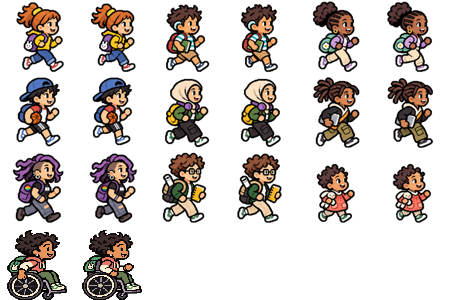
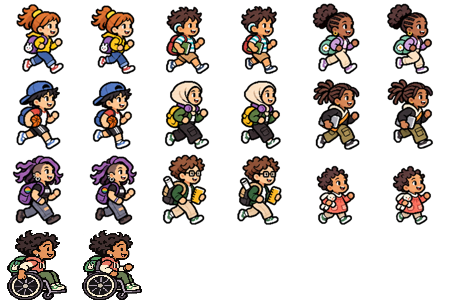
feat: improve companion formation visibility

diff --git a/tests/phaser/companion-group.test.ts b/tests/phaser/companion-group.test.ts
@@ -1,44 +1,57 @@
 import { describe, expect, it } from "vitest"
 
 import {
-  COMPANION_APPEARANCE_ORDER,
+  companionAppearanceOrder,
   companionFormation,
 } from "../../src/phaser/entities/CompanionGroup"
 
 describe("companion formation", () => {
-  it("spreads ten companions across three grounded perspective rows", () => {
+  it("reveals the farthest followers first without moving existing students", () => {
     const slots = companionFormation(10)
-    const rows = [...new Set(slots.map(({ y }) => y))].sort((a, b) => a - b)
 
     expect(slots).toHaveLength(10)
-    expect(rows).toEqual([-20, -10, 0])
-    expect(rows[1]! - rows[0]!).toBeGreaterThanOrEqual(8)
-    expect(rows[2]! - rows[1]!).toBeLessThanOrEqual(14)
-    for (const row of rows) {
-      const xs = slots
-        .filter((slot) => slot.y === row)
-        .map(({ x }) => x)
-        .sort((a, b) => a - b)
-      expect(xs[1]! - xs[0]!).toBeGreaterThan(23)
+    expect(slots.every(({ y }) => y === 0)).toBe(true)
+    expect(slots.map(({ x }) => x)).toEqual([
+      -176, -161, -146, -131, -116, -101, -86, -71, -56, -41,
+    ])
+    expect(companionFormation(5)).toEqual(slots.slice(0, 5))
+  })
+
+  it("keeps every pair of feet on the floor and spaces the group horizontally", () => {
+    const slots = companionFormation(10)
+    const gaps = slots.slice(1).map((slot, index) => slot.x - slots[index]!.x)
+
+    expect(slots.every(({ y }) => y === 0)).toBe(true)
+    expect(gaps.every((gap) => gap >= 15)).toBe(true)
+    expect(slots.every(({ scale }) => scale === 0.64)).toBe(true)
+  })
+
+  it("keeps the baby early and reserves a roomy non-final slot for the wheelchair", () => {
+    for (const seed of [1, 2_026, 8_675_309]) {
+      const order = companionAppearanceOrder(seed)
+
+      expect(order).toHaveLength(10)
+      expect(order[1]).toBe(9)
+      expect(order[7]).toBe(10)
+      expect([...order].sort((a, b) => a - b)).toEqual([
+        1, 2, 3, 4, 5, 6, 7, 8, 9, 10,
+      ])
     }
   })
 
-  it("puts the baby in the first row and wheelchair student before the end", () => {
-    expect(COMPANION_APPEARANCE_ORDER).toHaveLength(10)
-    expect(COMPANION_APPEARANCE_ORDER.indexOf(9)).toBeLessThan(3)
-    expect(COMPANION_APPEARANCE_ORDER.indexOf(10)).toBe(5)
-    expect(COMPANION_APPEARANCE_ORDER.at(-1)).not.toBe(10)
+  it("keeps a layout stable for one seed and varies regular students between runs", () => {
+    expect(companionAppearanceOrder(2_026)).toEqual(
+      companionAppearanceOrder(2_026),
+    )
+    expect(companionAppearanceOrder(2_026)).not.toEqual(
+      companionAppearanceOrder(2_027),
+    )
   })
 
-  it("reduces scale and depth for rows farther from the foreground", () => {
+  it("keeps a stable formation for partial groups", () => {
     const slots = companionFormation(10)
-    const scaleAt = (y: number) => slots.find((slot) => slot.y === y)!.scale
-    const depthAt = (y: number) => slots.find((slot) => slot.y === y)!.depth
 
-    expect(scaleAt(0)).toBeGreaterThan(scaleAt(-10))
-    expect(scaleAt(-10)).toBeGreaterThan(scaleAt(-20))
-    expect(depthAt(0)).toBeGreaterThan(depthAt(-10))
-    expect(depthAt(-10)).toBeGreaterThan(depthAt(-20))
+    expect(slots.every(({ depth }) => depth === 20)).toBe(true)
     expect(companionFormation(5)).toEqual(companionFormation(5))
   })
 })

diff --git a/src/phaser/entities/CompanionGroup.ts b/src/phaser/entities/CompanionGroup.ts
@@ -1,5 +1,6 @@
 import type Phaser from "phaser"
 
+import { SeededRandom } from "../../course/cadence"
 import { COMPANION_FRAME_INDEXES } from "../animations"
 
 export interface CompanionSlot {
@@ -10,27 +11,51 @@ export interface CompanionSlot {
 }
 
 const FORMATION: readonly CompanionSlot[] = [
-  { x: -44, y: 0, scale: 0.88, depth: 30 },
-  { x: -76, y: 0, scale: 0.88, depth: 30 },
-  { x: -108, y: 0, scale: 0.88, depth: 30 },
-  { x: -58, y: -10, scale: 0.82, depth: 20 },
-  { x: -90, y: -10, scale: 0.82, depth: 20 },
-  { x: -122, y: -10, scale: 0.82, depth: 20 },
-  { x: -72, y: -20, scale: 0.76, depth: 10 },
-  { x: -104, y: -20, scale: 0.76, depth: 10 },
-  { x: -136, y: -20, scale: 0.76, depth: 10 },
-  { x: -168, y: -20, scale: 0.76, depth: 10 },
+  { x: -176, y: 0, scale: 0.64, depth: 20 },
+  { x: -161, y: 0, scale: 0.64, depth: 20 },
+  { x: -146, y: 0, scale: 0.64, depth: 20 },
+  { x: -131, y: 0, scale: 0.64, depth: 20 },
+  { x: -116, y: 0, scale: 0.64, depth: 20 },
+  { x: -101, y: 0, scale: 0.64, depth: 20 },
+  { x: -86, y: 0, scale: 0.64, depth: 20 },
+  { x: -71, y: 0, scale: 0.64, depth: 20 },
+  { x: -56, y: 0, scale: 0.64, depth: 20 },
+  { x: -41, y: 0, scale: 0.64, depth: 20 },
 ]
 
-export const COMPANION_APPEARANCE_ORDER = [
-  1, 2, 9, 3, 4, 10, 5, 6, 7, 8,
-] as const
+const BABY_SLOT = 1
+const WHEELCHAIR_SLOT = 7
+
+export function companionAppearanceOrder(seed: number): readonly number[] {
+  const random = new SeededRandom(seed)
+  const identities = [1, 2, 3, 4, 5, 6, 7, 8]
+  for (let index = identities.length - 1; index > 0; index -= 1) {
+    const swapIndex = Math.floor(random.next() * (index + 1))
+    ;[identities[index], identities[swapIndex]] = [
+      identities[swapIndex]!,
+      identities[index]!,
+    ]
+  }
+
+  const order = Array<number>(FORMATION.length)
+  order[BABY_SLOT] = 9
+  order[WHEELCHAIR_SLOT] = 10
+  const regularSlots = Array.from(
+    { length: order.length },
+    (_, index) => index,
+  ).filter((index) => order[index] === undefined)
+  regularSlots.forEach((slot, index) => {
+    order[slot] = identities[index]!
+  })
+  return order
+}
 
 export function companionFormation(count: number): readonly CompanionSlot[] {
   return FORMATION.slice(0, Math.min(10, Math.max(0, Math.floor(count))))
 }
 
 export class CompanionGroup {
+  private readonly identities: readonly number[]
   private readonly sprites: Phaser.GameObjects.Sprite[]
   private count = 0
 
@@ -38,8 +63,10 @@ export class CompanionGroup {
     scene: Phaser.Scene,
     private readonly teacherX: number,
     private readonly groundY: number,
+    seed = 2_026,
   ) {
-    this.sprites = COMPANION_APPEARANCE_ORDER.map((identity) => {
+    this.identities = companionAppearanceOrder(seed)
+    this.sprites = this.identities.map((identity) => {
       const frames = COMPANION_FRAME_INDEXES[identity - 1]!
       return scene.add
         .sprite(0, groundY, "companions", frames[0])
@@ -75,6 +102,10 @@ export class CompanionGroup {
 
   visibleCount(): number {
     return this.count
+  }
+
+  visibleIdentities(): readonly number[] {
+    return this.identities.slice(0, this.count)
   }
 
   destroy(): void {

diff --git a/src/phaser/scenes/GameScene.ts b/src/phaser/scenes/GameScene.ts
@@ -21,6 +21,7 @@ export interface GameDebugState {
   readonly teacherY: number
   readonly groundY: number
   readonly companionYs: number[]
+  readonly companionIdentities: readonly number[]
   readonly energy: number
   readonly phase: string
   readonly term: Term
@@ -51,6 +52,7 @@ export class GameScene extends Phaser.Scene {
   private energyHud!: EnergyHud
   private backdrop!: ScrollingBackdrop
   private pendingImpact?: import("../../course/types").ObstacleKind
+  private companionSeed = 2_026
   private lastEnergyBucket = 10
   private lastPressureBucket = -1
 
@@ -60,6 +62,9 @@ export class GameScene extends Phaser.Scene {
 
   init(data: Partial<GameSceneData>): void {
     this.courseState = data.state ?? createCourseState()
+    if (this.courseState.courseElapsedMs === 0) {
+      this.companionSeed = this.seedFromLocation(this.randomSeed())
+    }
     this.lastPressureBucket = -1
   }
 
@@ -80,7 +85,12 @@ export class GameScene extends Phaser.Scene {
     registerGameAnimations(this)
 
     this.teacher = new Teacher(this, TEACHER_X, GAME_GROUND_Y)
-    this.companions = new CompanionGroup(this, TEACHER_X, GAME_GROUND_Y)
+    this.companions = new CompanionGroup(
+      this,
+      TEACHER_X,
+      GAME_GROUND_Y,
+      this.companionSeed,
+    )
     this.companions.setCount(this.courseState.companionCount)
     this.obstacles = new ObstaclePool(
       this,
@@ -199,6 +209,7 @@ export class GameScene extends Phaser.Scene {
       teacherY: Math.round(this.teacher.y),
       groundY: GAME_GROUND_Y,
       companionYs: this.companions.visibleGroundPositions(),
+      companionIdentities: this.companions.visibleIdentities(),
       energy: this.courseState.energy,
       phase: this.courseState.phase,
       term: this.courseState.term,
@@ -225,10 +236,14 @@ export class GameScene extends Phaser.Scene {
     }
   }
 
-  private seedFromLocation(): number {
-    if (typeof window === "undefined") return 2_026
+  private seedFromLocation(fallback = 2_026): number {
+    if (typeof window === "undefined") return fallback
     const seed = Number(new URLSearchParams(window.location.search).get("seed"))
-    return Number.isFinite(seed) && seed > 0 ? seed : 2_026
+    return Number.isFinite(seed) && seed > 0 ? seed : fallback
+  }
+
+  private randomSeed(): number {
+    return Math.floor(Math.random() * 0xffff_ffff) + 1
   }
 
   private initialBackgroundOffset(): number {

diff --git a/tests/e2e/course-flow.spec.ts b/tests/e2e/course-flow.spec.ts
@@ -22,6 +22,7 @@ declare global {
 test("completes the fast course with 2→10 resets and seasonal breaks", async ({
   page,
 }, testInfo) => {
+  const companionLayouts: number[][] = []
   await page.setViewportSize({ width: 844, height: 390 })
   await page.goto("/?slice=1&fast=1&seed=2026")
   await page.waitForFunction(() => window.__phaserSlice !== undefined)
@@ -42,6 +43,12 @@ test("completes the fast course with 2→10 resets and seasonal breaks", async (
         ),
       )
       .toBe(true)
+    await expect
+      .poll(() => page.evaluate(() => window.__phaserSlice?.companionCount))
+      .toBe(10)
+    companionLayouts.push(
+      await page.evaluate(() => [...(window.__phaserSlice?.companionIdentities ?? [])]),
+    )
     if (term < 3) {
       const continueButton = page.getByRole("button", {
         name: "Continuar el curso",
@@ -68,6 +75,8 @@ test("completes the fast course with 2→10 resets and seasonal breaks", async (
     expect(samples.some((sample) => sample.term === term && sample.companionCount === 2)).toBe(true)
     expect(samples.some((sample) => sample.term === term && sample.companionCount === 10)).toBe(true)
   }
+  expect(companionLayouts[1]).toEqual(companionLayouts[0])
+  expect(companionLayouts[2]).toEqual(companionLayouts[0])
   const history = await page.evaluate(() => window.__sceneHistory ?? [])
   expect(history).toEqual(
     expect.arrayContaining([
@@ -135,12 +144,7 @@ test("deterministic impacts are recoverable and followers stay grounded", async 
   expect(state?.energy).toBeLessThan(100)
   expect(state?.phase).toBe("running")
   expect(
-    state?.companionYs.every(
-      (y) =>
-        y === state.groundY ||
-        y === state.groundY - 10 ||
-        y === state.groundY - 20,
-    ),
+    state?.companionYs.every((y) => y === state.groundY),
   ).toBe(true)
 })
 

diff --git a/tests/scripts/prepare-companions.test.ts b/tests/scripts/prepare-companions.test.ts
@@ -1,0 +1,34 @@
+import { describe, expect, it } from "vitest"
+
+import sharp from "sharp"
+
+const FRAME_SIZE = 75
+const COMPANION_FRAME_COUNT = 20
+
+describe("prepared companion sprites", () => {
+  it("places opaque pixels on the ground line in every running frame", async () => {
+    const sheetUrl = new URL(
+      "../../public/game/characters/companions.png",
+      import.meta.url,
+    )
+    const sheet = await sharp(decodeURIComponent(sheetUrl.pathname))
+      .ensureAlpha()
+      .raw()
+      .toBuffer({ resolveWithObject: true })
+
+    for (let frame = 0; frame < COMPANION_FRAME_COUNT; frame += 1) {
+      const column = frame % 6
+      const row = Math.floor(frame / 6)
+      const groundY = row * FRAME_SIZE + FRAME_SIZE - 1
+      const left = column * FRAME_SIZE
+      const hasGroundPixel = Array.from({ length: FRAME_SIZE }, (_, x) => {
+        const pixel = (groundY * sheet.info.width + left + x) * 4
+        return sheet.data[pixel + 3]! > 0
+      }).some(Boolean)
+
+      expect(hasGroundPixel, `frame ${frame} has no pixel on its baseline`).toBe(
+        true,
+      )
+    }
+  })
+})

diff --git a/tests/e2e/performance.spec.ts b/tests/e2e/performance.spec.ts
@@ -35,3 +35,30 @@ test("keeps a bounded pool and stable frame samples at 740 by 360", async ({
   expect(average).toBeLessThan(25)
   expect(p95).toBeLessThan(35)
 })
+
+test("keeps a seeded group stable and changes regular positions between runs", async ({
+  page,
+}) => {
+  const layouts: number[][] = []
+
+  for (const seed of [2_026, 2_027]) {
+    await page.goto(`/?term=3&perf=1&seed=${seed}`)
+    await expect
+      .poll(() => page.evaluate(() => window.__phaserSlice?.companionCount))
+      .toBe(10)
+    layouts.push(
+      await page.evaluate(
+        () =>
+          (
+            window.__phaserSlice as unknown as {
+              companionIdentities?: number[]
+            }
+          )?.companionIdentities ?? [],
+      ),
+    )
+  }
+
+  expect(layouts[0]).toHaveLength(10)
+  expect(layouts[1]).toHaveLength(10)
+  expect(layouts[0]).not.toEqual(layouts[1])
+})

diff --git a/playwright.config.ts b/playwright.config.ts
@@ -3,6 +3,7 @@ import { defineConfig } from "@playwright/test"
 export default defineConfig({
   testDir: "./tests/e2e",
   fullyParallel: false,
+  workers: 1,
   retries: 0,
   reporter: "line",
   use: {
